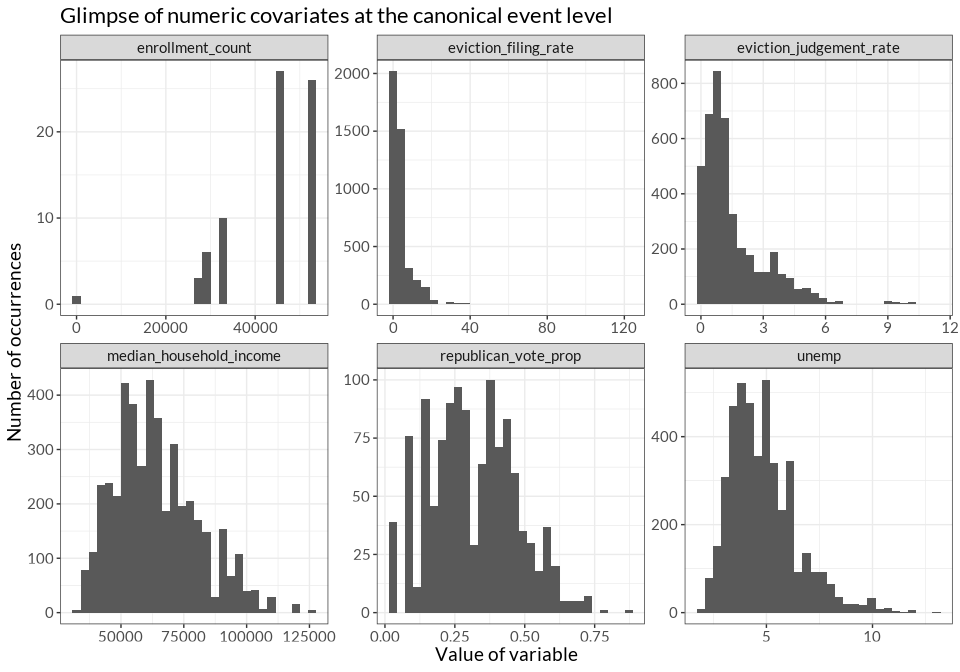
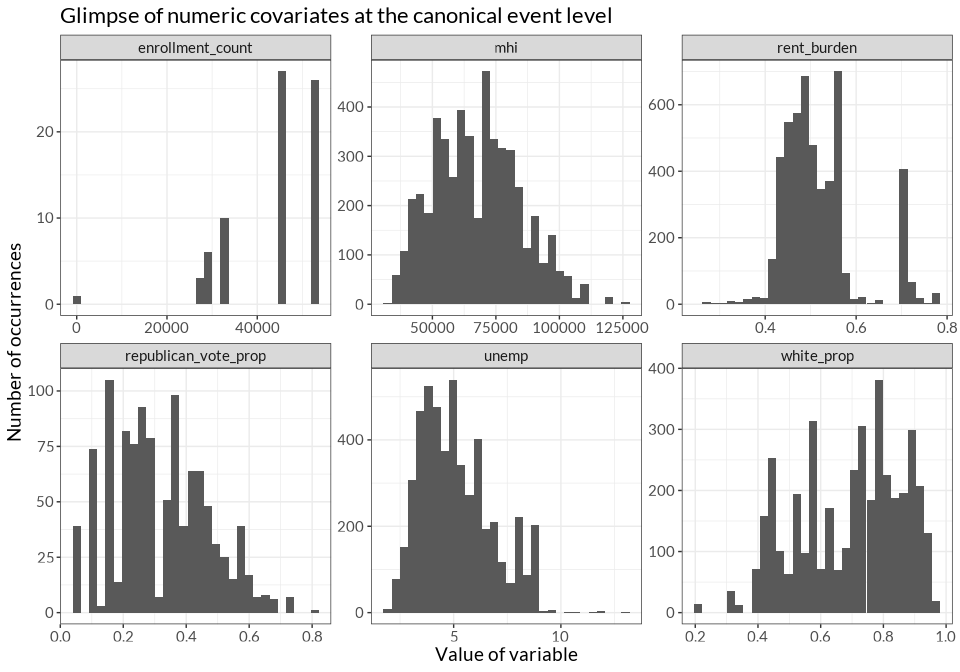
doc updates

diff --git a/docs/exploratory_plots.md b/docs/exploratory_plots.md
@@ -8,15 +8,15 @@ Exploratory Plots
 | Total imported events                       |  6097 |
 | Total events after cleaning                 |  6097 |
 | Unique locations                            |   540 |
-| US counties                                 |   314 |
+| US counties                                 |     0 |
 | Universities                                |   605 |
-| Missing universities                        |    19 |
-| CEs with missing universities               |    87 |
-| \# of events with police presence recorded  |   410 |
+| Missing universities                        |    15 |
+| CEs with missing universities               |    73 |
 | \# of events with police activity recorded  |   868 |
 | \# of events with any police field recorded |   925 |
 | \# of events with university police only    |   450 |
-| \# of events with government police only    |   230 |
+| \# of events with government police only    |   284 |
+| \# of events with both types of police      |   146 |
 
 The initial import of the MPEDS db found 6097 unique canonical events,
 and after all cleaning steps we still have 6097 canonical events.
@@ -31,13 +31,13 @@ thus no further joins will be accurate unless the MPEDS-IPEDS join is
 accurate. As of Jan 30, 2023, we are in the middle of repairing this
 join.
 
-Of those events, there were 540 unique locations, 314 unique counties,
-and 605 unique universities. Surprisingly, all of the locations that
-were not universities found geocoding matches, and hand-checking the
-most common ones indicates that there isn’t a strong pattern of missing
-value substitution, e.g. Google isn’t sending the majority of results to
-the centroid of America or to `(-1, -1)` or anything weird like that.
-Universities had a harder time, with 19 universities and 87 rows
+Of those events, there were 540 unique locations, 0 unique counties, and
+605 unique universities. Surprisingly, all of the locations that were
+not universities found geocoding matches, and hand-checking the most
+common ones indicates that there isn’t a strong pattern of missing value
+substitution, e.g. Google isn’t sending the majority of results to the
+centroid of America or to `(-1, -1)` or anything weird like that.
+Universities had a harder time, with 15 universities and 73 rows
 (canonical events) not returning lon/lat coords for universities.
 
 That comes out to \~5% of universities not having coordinates, and
@@ -85,73 +85,50 @@ And the top locations:
 
 Top states:
 
-|   n | state_name           |
-|----:|:---------------------|
-| 890 | California           |
-| 375 | Massachusetts        |
-| 336 | New York             |
-| 262 | Illinois             |
-| 187 | Pennsylvania         |
-| 170 | Michigan             |
-| 161 | Texas                |
-| 137 | Ohio                 |
-| 128 | District of Columbia |
-| 120 | Virginia             |
-| 110 | North Carolina       |
-| 107 | Florida              |
-| 106 | Indiana              |
-|  98 | Missouri             |
-|  93 | Connecticut          |
+| area_name            |   n |
+|:---------------------|----:|
+| California           | 890 |
+| Quebec               | 427 |
+| Massachusetts        | 375 |
+| Ontario              | 339 |
+| New York             | 336 |
+| Illinois             | 262 |
+| Pennsylvania         | 187 |
+| Michigan             | 170 |
+| Texas                | 161 |
+| Ohio                 | 137 |
+| District of Columbia | 128 |
+| Virginia             | 120 |
+| British Col          | 118 |
+| North Carolina       | 110 |
+| Florida              | 107 |
 
 And finally the top counties:
 
-|   n | county_name                                |
-|----:|:-------------------------------------------|
-| 239 | Middlesex County, Massachusetts            |
-| 236 | Alameda County, California                 |
-| 206 | Los Angeles County, California             |
-| 179 | New York County, New York                  |
-| 137 | Cook County, Illinois                      |
-| 128 | District of Columbia, District of Columbia |
-| 117 | Washtenaw County, Michigan                 |
-|  99 | San Diego County, California               |
-|  86 | San Francisco County, California           |
-|  75 | Suffolk County, Massachusetts              |
-|  59 | Santa Clara County, California             |
-|  56 | Travis County, Texas                       |
-|  50 | Yolo County, California                    |
-|  50 | Dane County, Wisconsin                     |
-|  46 | Boulder County, Colorado                   |
-|  46 | Tompkins County, New York                  |
+| locality_name        |   n |
+|:---------------------|----:|
+| Montréal             | 395 |
+| Middlesex            | 296 |
+| Toronto              | 248 |
+| Alameda              | 236 |
+| Los Angeles          | 206 |
+| New York             | 179 |
+| Cook                 | 137 |
+| District of Columbia | 128 |
+| Washtenaw            | 117 |
+| San Diego            |  99 |
+| San Francisco        |  86 |
+| Vancouver            |  86 |
+| Suffolk              |  75 |
+| Santa Clara          |  59 |
+| Travis               |  56 |
 
 These glimpses seem mostly in line with what we should expect, with a
 strong caveat that the Missouri protests are not making a leading
 appearance in the counts by location, but there do seem to be a fair
-number in Missouri when we take a look by state. What’s going on there?
-
-Associated semantic locations with canonical events assigned the
-Missouri FIPS code, and the Boone county FIPS code:
-
-| location                |   n |
-|:------------------------|----:|
-| Cape Girardeau, MO, USA |   1 |
-| Columbia, MO, USA       |  36 |
-| Jefferson City, MO, USA |   3 |
-| Kansas City, MO, USA    |   4 |
-| Maryville, MO, USA      |   1 |
-| Springfield, MO, USA    |   1 |
-| St. Charles, MO, USA    |   1 |
-| St. Joseph, MO, USA     |   3 |
-| St. Louis, MO, USA      |  42 |
-| Webster Groves, MO, USA |   1 |
-| Webster Groves, MO, USA |   5 |
-
-| location          |   n |
-|:------------------|----:|
-| Columbia, MO, USA |  36 |
-
-Ah, that’s not good. It seems there are non-MO locations being
-recognized as happening in Missouri. See Google Doc for details
+number in Missouri when we take a look by state. It seems there are
+non-MO locations being recognized as happening in Missouri. See our 1:1
+notes Google Doc for details.
 
 | police_presence_and_size |    n |
 |:-------------------------|-----:|
@@ -348,6 +325,7 @@ Hm.
 
 | issue                                                        |   pct |
 |:-------------------------------------------------------------|------:|
+| Percent of events with any value                             | 73.89 |
 | University governance, admin, policies, programs, curriculum | 28.13 |
 | \_Not relevant                                               | 16.58 |
 | Labor and work                                               | 15.68 |
@@ -396,6 +374,7 @@ Hm.
 | racial_issue                                                 |   pct |
 |:-------------------------------------------------------------|------:|
 | \_Not relevant                                               | 54.95 |
+| Percent of events with any value                             | 34.53 |
 | Anti-racism                                                  | 14.12 |
 | NA                                                           | 10.66 |
 | Police violence                                              |  9.41 |
@@ -518,28 +497,28 @@ issues, it will be counted twice in this chart.
 
 # Basic summary plots by variable
 
-| name                    | type    |      mean |        sd |
-|:------------------------|:--------|----------:|----------:|
-| bachelors_granting      | boolean |     1.000 |        NA |
-| campaign                | boolean |     0.243 |        NA |
-| counterprotest          | boolean |     0.044 |        NA |
-| hbcu                    | boolean |     0.011 |        NA |
-| inaccurate_date         | boolean |     0.009 |        NA |
-| masters_granting        | boolean |     1.000 |        NA |
-| multiple_cities         | boolean |     0.024 |        NA |
-| off_campus              | boolean |     0.072 |        NA |
-| on_campus_no_student    | boolean |     0.070 |        NA |
-| phd_granting            | boolean |     1.000 |        NA |
-| private                 | boolean |     0.053 |        NA |
-| quotes                  | boolean |     0.630 |        NA |
-| ritual                  | boolean |     0.029 |        NA |
-| tribal                  | boolean |     0.000 |        NA |
-| enrollment_count        | numeric | 43568.548 | 10014.084 |
-| eviction_filing_rate    | numeric |     4.018 |     5.590 |
-| eviction_judgement_rate | numeric |     1.550 |     1.580 |
-| median_household_income | numeric | 64063.576 | 16601.374 |
-| republican_vote_prop    | numeric |     0.315 |     0.152 |
-| unemp                   | numeric |     4.864 |     1.576 |
+| name                 | type    |      mean |        sd |
+|:---------------------|:--------|----------:|----------:|
+| bachelors_granting   | boolean |     1.000 |        NA |
+| campaign             | boolean |     0.243 |        NA |
+| counterprotest       | boolean |     0.044 |        NA |
+| hbcu                 | boolean |     0.011 |        NA |
+| inaccurate_date      | boolean |     0.009 |        NA |
+| masters_granting     | boolean |     1.000 |        NA |
+| multiple_cities      | boolean |     0.024 |        NA |
+| off_campus           | boolean |     0.072 |        NA |
+| on_campus_no_student | boolean |     0.070 |        NA |
+| phd_granting         | boolean |     1.000 |        NA |
+| private              | boolean |     0.053 |        NA |
+| quotes               | boolean |     0.630 |        NA |
+| ritual               | boolean |     0.029 |        NA |
+| tribal               | boolean |     0.000 |        NA |
+| enrollment_count     | numeric | 43568.548 | 10014.084 |
+| mhi                  | numeric | 67565.793 | 16808.029 |
+| rent_burden          | numeric |     0.517 |     0.082 |
+| republican_vote_prop | numeric |     0.317 |     0.153 |
+| unemp                | numeric |     5.131 |     1.661 |
+| white_prop           | numeric |     0.693 |     0.166 |
 
 For boolean variables, “mean” is the proportion that they are TRUE. Many
 of the variables recorded in MPEDS allowed for the input of multiple
@@ -581,16 +560,16 @@ The following chunk gives a glimpse at total number of matches:
 
 | source    | date_offset | recent_protests | match_percentage |
 |:----------|------------:|----------------:|-----------------:|
-| CCC       |           0 |             758 |        45.307830 |
-| CCC       |           1 |             324 |        19.366408 |
-| CCC       |           3 |             618 |        36.939629 |
-| CCC       |           5 |             776 |        46.383742 |
-| CCC       |           7 |             903 |        53.974895 |
-| Elephrame |           0 |             314 |         6.502381 |
-| Elephrame |           1 |             114 |         2.360737 |
-| Elephrame |           3 |             232 |         4.804307 |
-| Elephrame |           5 |             368 |         7.620625 |
-| Elephrame |           7 |             465 |         9.629323 |
+| CCC       |           0 |               5 |        0.2988643 |
+| CCC       |           1 |               1 |        0.0597729 |
+| CCC       |           3 |               4 |        0.2390915 |
+| CCC       |           5 |               8 |        0.4781829 |
+| CCC       |           7 |              10 |        0.5977286 |
+| Elephrame |           0 |              10 |        0.2070822 |
+| Elephrame |           1 |               7 |        0.1449575 |
+| Elephrame |           3 |              10 |        0.2070822 |
+| Elephrame |           5 |              16 |        0.3313315 |
+| Elephrame |           7 |              18 |        0.3727480 |
 
 Here, the `match_percentage` column indicates how many canonical events
 saw another protest occur in the same county within `diff` days,
@@ -632,27 +611,11 @@ and solidarity events.
 
 ![](exploratory_plots_files/figure-gfm/mizzou_map-1.png)<!-- -->![](exploratory_plots_files/figure-gfm/mizzou_map-2.png)<!-- -->
 
-    ## # A tibble: 6 × 2
-    ##   `Statistics for Quebec protests`     n
-    ##   <chr>                            <int>
-    ## 1 Total number of links               86
-    ## 2 Unique events                       86
-    ## 3 Campaign events only                65
-    ## 4 Coinciding events only               5
-    ## 5 Counterprotest events only           1
-    ## 6 Solidarity events only              15
+| Statistics for Quebec protests |   n |
+|:-------------------------------|----:|
+| Total number of links          |  86 |
+| Unique events                  |  86 |
+| Campaign events only           |  79 |
+| Solidarity events only         |   7 |
 
 ![](exploratory_plots_files/figure-gfm/quebec-1.png)<!-- -->![](exploratory_plots_files/figure-gfm/quebec-2.png)<!-- -->
-
-Top locations under the Quebec umbrella of events:
-
-| place                |   n |
-|:---------------------|----:|
-| Montréal             |  59 |
-| Toronto              |  21 |
-| Calgary              |   1 |
-| Hamilton             |   1 |
-| New York County, New |     |
-| York                 |   1 |
-
-Not very useful to map this one, I fear.
